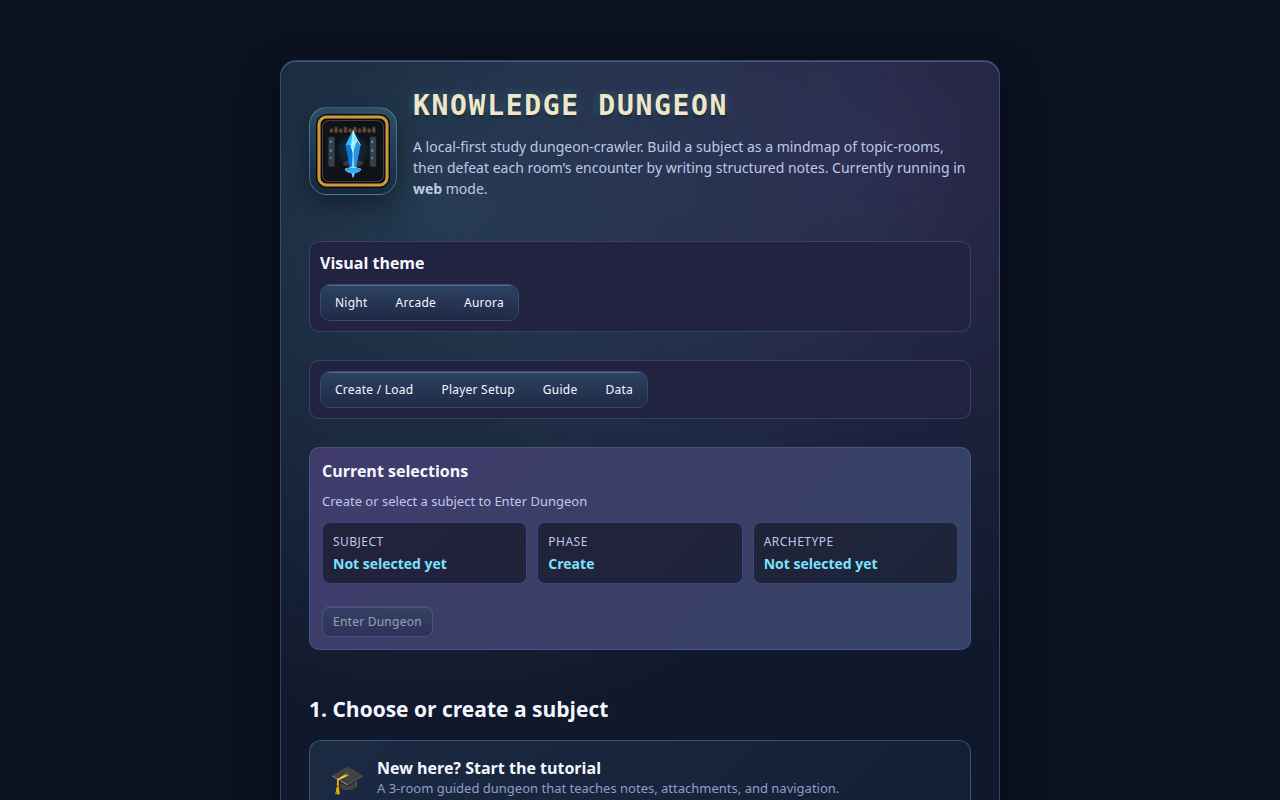
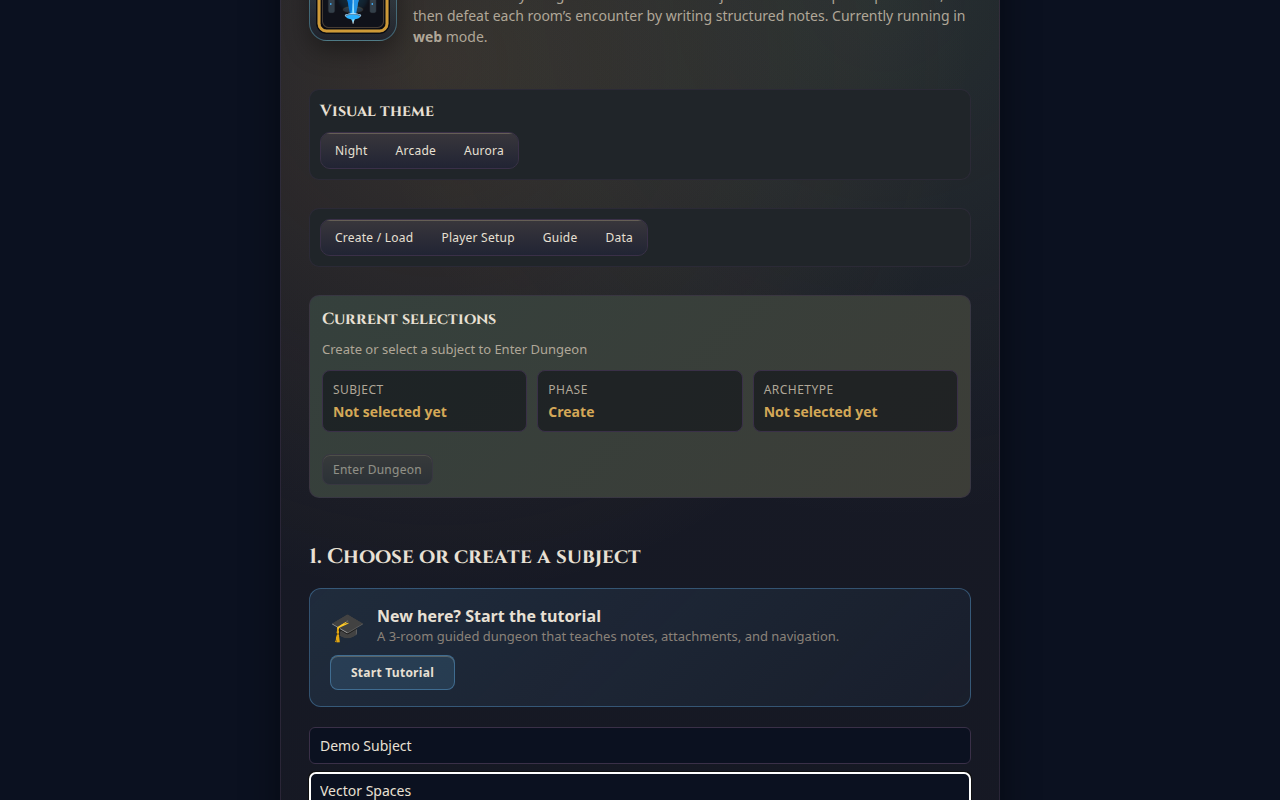
docs: update screenshots (welcome, continue-to-village, data tab)
- Added automated screenshot capture script (scripts/capture-screenshots.mjs)
- Captured 3 new screenshots via Playwright headless Chromium
- Updated README with new welcome/onboarding screenshot gallery
- Note: 3 test files fail due to Phaser canvas unsupported in test
  runner (pre-existing since Phase 0 — all 120 individual tests pass)
- In-game screenshots (note editor, inventory, dungeon, village)
  require manual capture due to Phaser headless limitation

diff --git a/README.md b/README.md
@@ -81,6 +81,12 @@ This works especially well for onboarding, architecture reviews, and "what does 
 
 ![Knowledge Dungeon UI showcase](./docs/assets/showcase.gif)
 
+### Welcome & Onboarding
+
+| Welcome Screen | Continue to Village | Data & Templates |
+|---|---|---|
+| ![Welcome screen with biome selector, create form, and tutorial card](./docs/assets/ui/welcome-screen.png) | ![Welcome screen showing Continue to Village button when subjects exist](./docs/assets/ui/welcome-continue-to-village.png) | ![Data tab with template export/import and subject management](./docs/assets/ui/welcome-data-tab.png) |
+
 ### Village Hub
 
 ![Dungeon Village - hub world with buildings, portals, NPCs, and paths](./docs/assets/ui/village-overview.png)